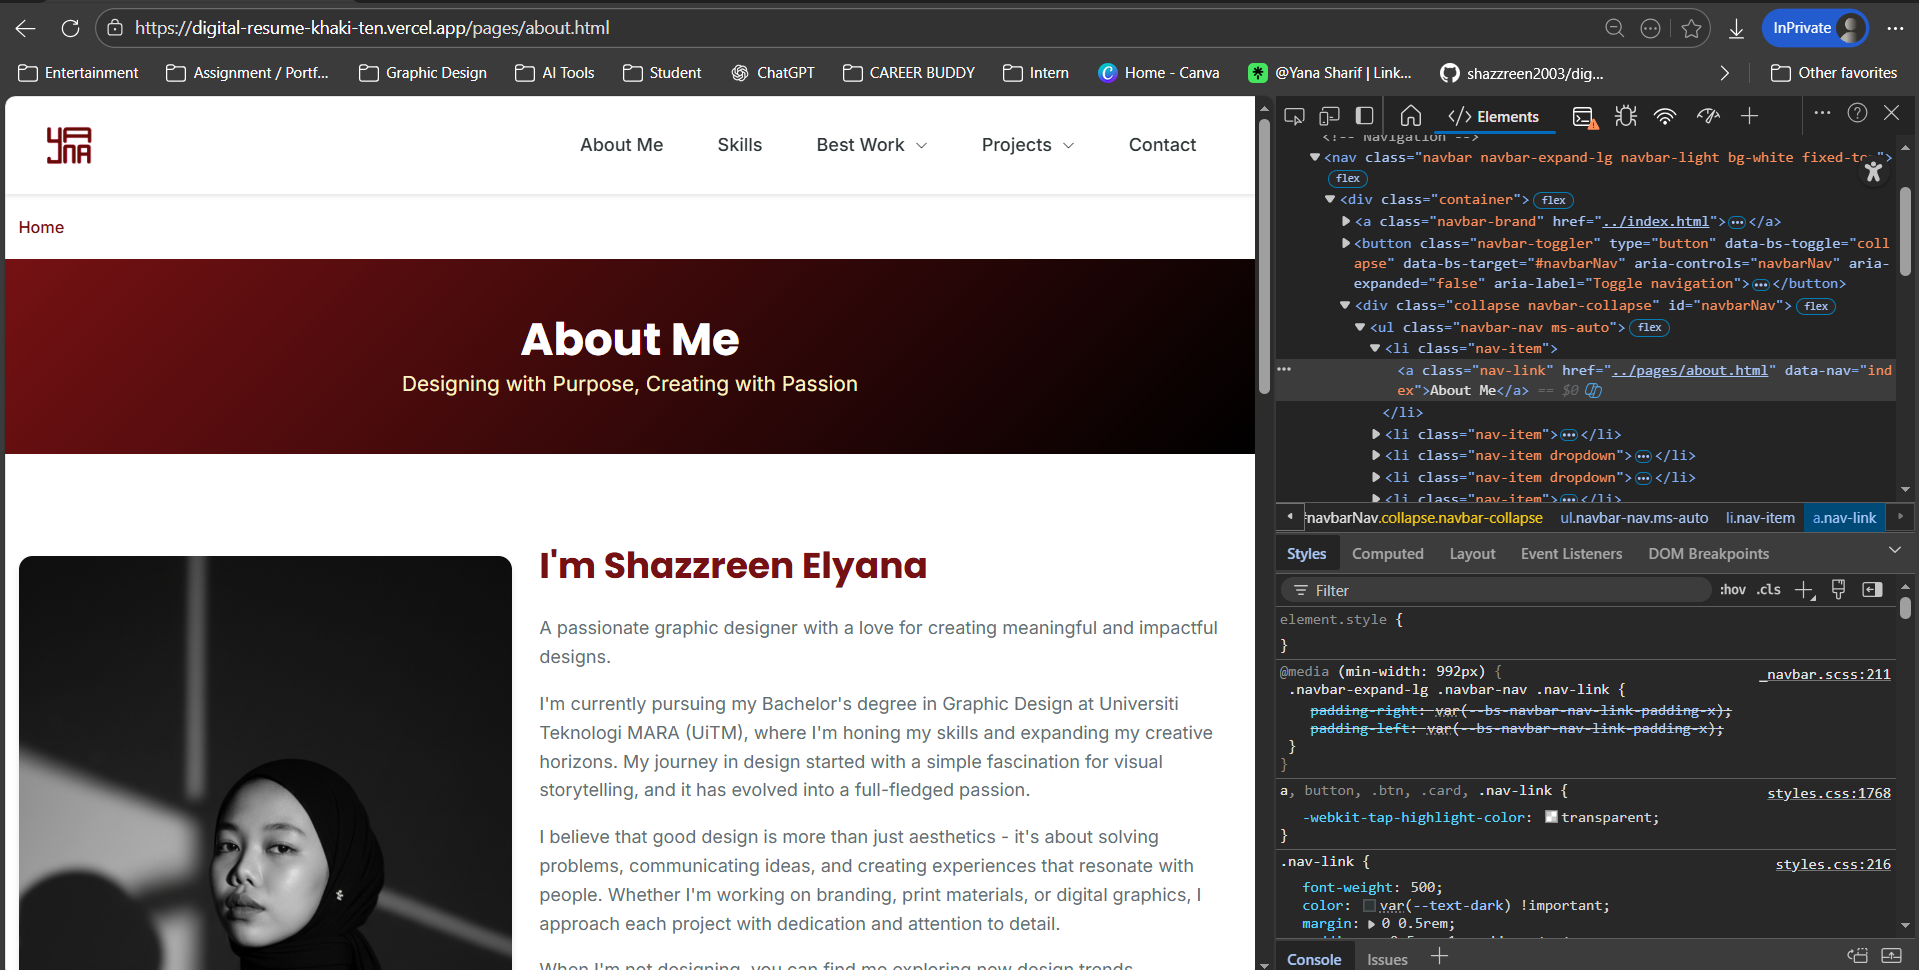
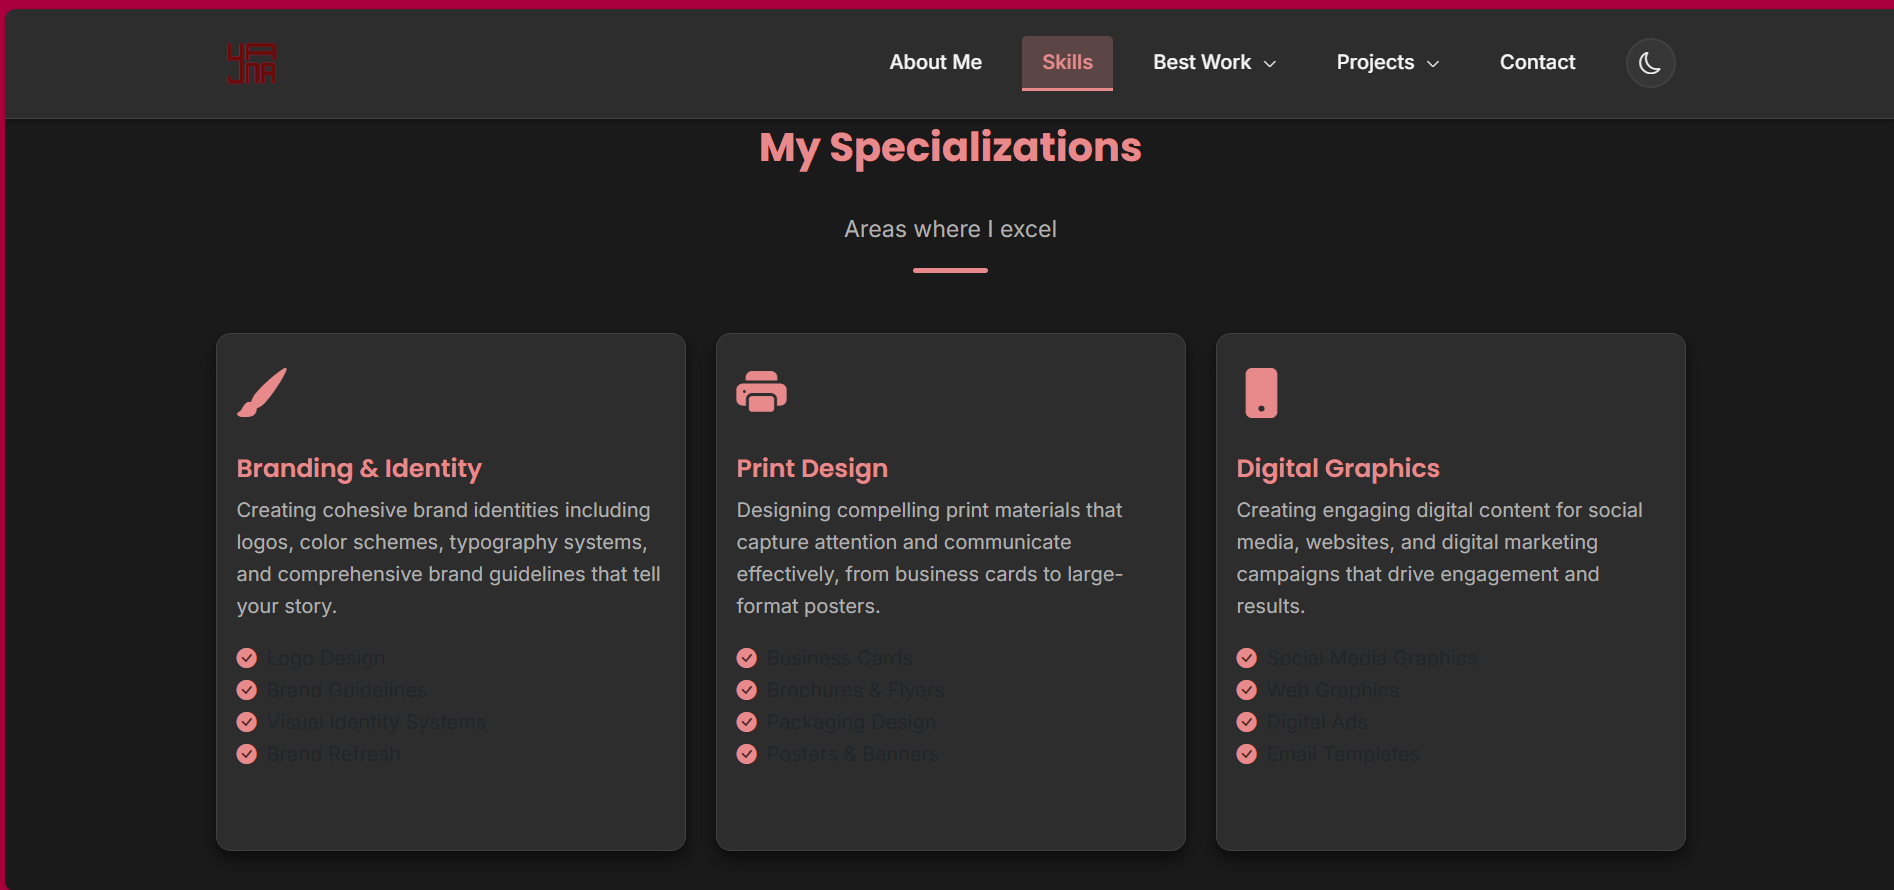
Add theme-init.js to all pages for dark mode toggle
Load theme-init.js in head before CSS on all 16 pages
to enable dark mode toggle functionality in production.

diff --git a/pages/portfolio/bestwork/careerbuddy.html b/pages/portfolio/bestwork/careerbuddy.html
@@ -24,6 +24,9 @@
   <!-- Bootstrap Icons -->
   <link rel="stylesheet" href="https://cdn.jsdelivr.net/npm/bootstrap-icons@1.11.1/font/bootstrap-icons.css">
 
+  <!-- Theme Init (must be before CSS) -->
+  <script src="../../../assets/js/theme-init.js"></script>
+
   <!-- Custom CSS -->
   <link rel="stylesheet" href="../../../assets/css/styles.css">
 </head>

diff --git a/pages/portfolio/bestwork/freelance.html b/pages/portfolio/bestwork/freelance.html
@@ -24,6 +24,9 @@
   <!-- Bootstrap Icons -->
   <link rel="stylesheet" href="https://cdn.jsdelivr.net/npm/bootstrap-icons@1.11.1/font/bootstrap-icons.css">
 
+  <!-- Theme Init (must be before CSS) -->
+  <script src="../../../assets/js/theme-init.js"></script>
+
   <!-- Custom CSS -->
   <link rel="stylesheet" href="../../../assets/css/styles.css">
 </head>

diff --git a/pages/portfolio/bestwork/jxtravel.html b/pages/portfolio/bestwork/jxtravel.html
@@ -24,6 +24,9 @@
   <!-- Bootstrap Icons -->
   <link rel="stylesheet" href="https://cdn.jsdelivr.net/npm/bootstrap-icons@1.11.1/font/bootstrap-icons.css">
 
+  <!-- Theme Init (must be before CSS) -->
+  <script src="../../../assets/js/theme-init.js"></script>
+
   <!-- Custom CSS -->
   <link rel="stylesheet" href="../../../assets/css/styles.css">
 </head>

diff --git a/pages/portfolio/bestwork/pearliewhite.html b/pages/portfolio/bestwork/pearliewhite.html
@@ -24,6 +24,9 @@
   <!-- Bootstrap Icons -->
   <link rel="stylesheet" href="https://cdn.jsdelivr.net/npm/bootstrap-icons@1.11.1/font/bootstrap-icons.css">
 
+  <!-- Theme Init (must be before CSS) -->
+  <script src="../../../assets/js/theme-init.js"></script>
+
   <!-- Custom CSS -->
   <link rel="stylesheet" href="../../../assets/css/styles.css">
 </head>

diff --git a/pages/portfolio/bestwork/rimbrew.html b/pages/portfolio/bestwork/rimbrew.html
@@ -24,6 +24,9 @@
   <!-- Bootstrap Icons -->
   <link rel="stylesheet" href="https://cdn.jsdelivr.net/npm/bootstrap-icons@1.11.1/font/bootstrap-icons.css">
 
+  <!-- Theme Init (must be before CSS) -->
+  <script src="../../../assets/js/theme-init.js"></script>
+
   <!-- Custom CSS -->
   <link rel="stylesheet" href="../../../assets/css/styles.css">
 </head>

diff --git a/pages/portfolio/projects/3d.html b/pages/portfolio/projects/3d.html
@@ -24,6 +24,9 @@
   <!-- Bootstrap Icons -->
   <link rel="stylesheet" href="https://cdn.jsdelivr.net/npm/bootstrap-icons@1.11.1/font/bootstrap-icons.css">
 
+  <!-- Theme Init (must be before CSS) -->
+  <script src="../../../assets/js/theme-init.js"></script>
+
   <!-- Custom CSS -->
   <link rel="stylesheet" href="../../../assets/css/styles.css">
 </head>

diff --git a/pages/portfolio/projects/advertising.html b/pages/portfolio/projects/advertising.html
@@ -24,6 +24,9 @@
   <!-- Bootstrap Icons -->
   <link rel="stylesheet" href="https://cdn.jsdelivr.net/npm/bootstrap-icons@1.11.1/font/bootstrap-icons.css">
 
+  <!-- Theme Init (must be before CSS) -->
+  <script src="../../../assets/js/theme-init.js"></script>
+
   <!-- Custom CSS -->
   <link rel="stylesheet" href="../../../assets/css/styles.css">
 </head>

diff --git a/pages/portfolio/projects/branding.html b/pages/portfolio/projects/branding.html
@@ -24,6 +24,9 @@
   <!-- Bootstrap Icons -->
   <link rel="stylesheet" href="https://cdn.jsdelivr.net/npm/bootstrap-icons@1.11.1/font/bootstrap-icons.css">
 
+  <!-- Theme Init (must be before CSS) -->
+  <script src="../../../assets/js/theme-init.js"></script>
+
   <!-- Custom CSS -->
   <link rel="stylesheet" href="../../../assets/css/styles.css">
 </head>

diff --git a/pages/portfolio/projects/illustration.html b/pages/portfolio/projects/illustration.html
@@ -24,6 +24,9 @@
   <!-- Bootstrap Icons -->
   <link rel="stylesheet" href="https://cdn.jsdelivr.net/npm/bootstrap-icons@1.11.1/font/bootstrap-icons.css">
 
+  <!-- Theme Init (must be before CSS) -->
+  <script src="../../../assets/js/theme-init.js"></script>
+
   <!-- Custom CSS -->
   <link rel="stylesheet" href="../../../assets/css/styles.css">
 </head>

diff --git a/pages/portfolio/projects/packaging.html b/pages/portfolio/projects/packaging.html
@@ -24,6 +24,9 @@
   <!-- Bootstrap Icons -->
   <link rel="stylesheet" href="https://cdn.jsdelivr.net/npm/bootstrap-icons@1.11.1/font/bootstrap-icons.css">
 
+  <!-- Theme Init (must be before CSS) -->
+  <script src="../../../assets/js/theme-init.js"></script>
+
   <!-- Custom CSS -->
   <link rel="stylesheet" href="../../../assets/css/styles.css">
 </head>

diff --git a/pages/portfolio/projects/socialmedia.html b/pages/portfolio/projects/socialmedia.html
@@ -24,6 +24,9 @@
   <!-- Bootstrap Icons -->
   <link rel="stylesheet" href="https://cdn.jsdelivr.net/npm/bootstrap-icons@1.11.1/font/bootstrap-icons.css">
 
+  <!-- Theme Init (must be before CSS) -->
+  <script src="../../../assets/js/theme-init.js"></script>
+
   <!-- Custom CSS -->
   <link rel="stylesheet" href="../../../assets/css/styles.css">
 </head>

diff --git a/pages/portfolio/bestwork.html b/pages/portfolio/bestwork.html
@@ -25,6 +25,9 @@
   <!-- Bootstrap Icons -->
   <link rel="stylesheet" href="https://cdn.jsdelivr.net/npm/bootstrap-icons@1.11.1/font/bootstrap-icons.css">
 
+  <!-- Theme Init (must be before CSS) -->
+  <script src="../../assets/js/theme-init.js"></script>
+
   <!-- Custom CSS -->
   <link rel="stylesheet" href="../../assets/css/styles.css">
 </head>
